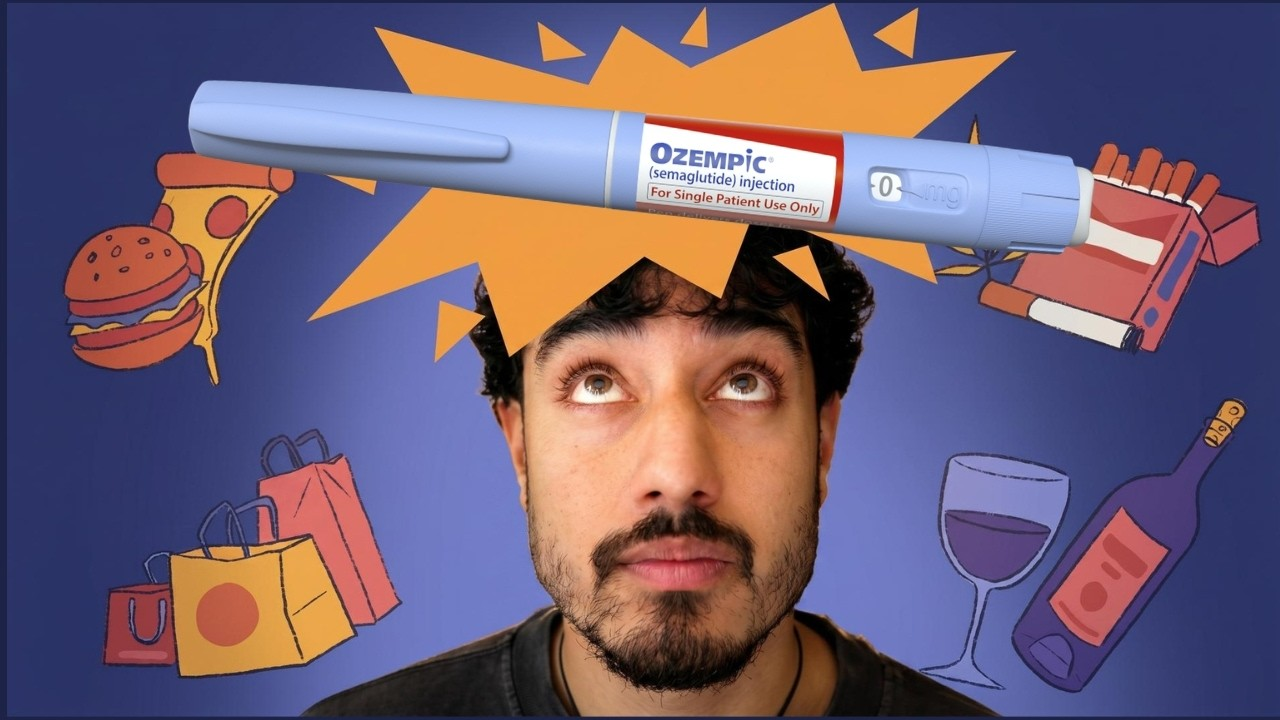
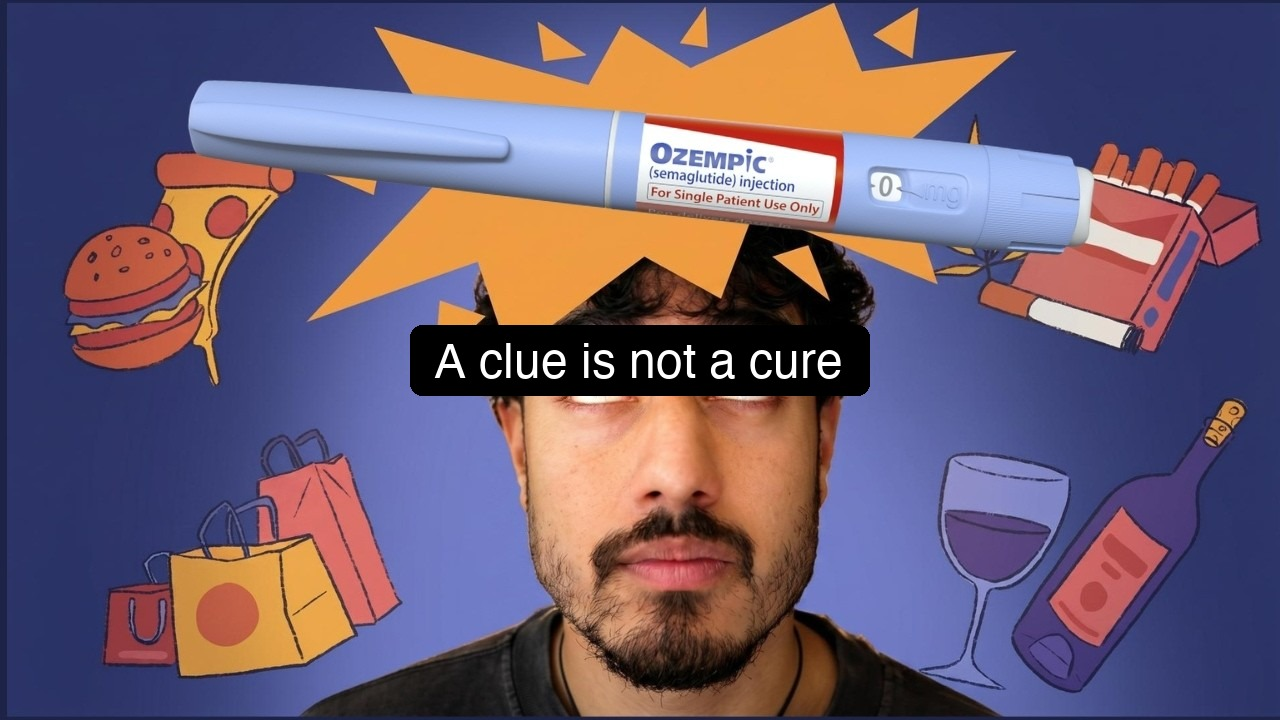
feat: add Ozempic article preview

Changed region(s): [[0.3125, 0.4278, 0.6875, 0.55]]

diff --git a/nextjs/public/medium/youtube-ozempic-5ggagpjdri8/index.html b/nextjs/public/medium/youtube-ozempic-5ggagpjdri8/index.html
@@ -5,7 +5,7 @@
   <meta name="viewport" content="width=device-width, initial-scale=1">
   <meta name="robots" content="noindex,nofollow">
   <meta name="article:status" content="preview">
[2 lines of base64/hex data omitted]
   <link rel="canonical" href="https://www.maxpetrusenko.com/medium/youtube-ozempic-5ggagpjdri8/">
   <title>The Strange Side Effect People Keep Discovering on Ozempic</title>
   <style>
@@ -80,40 +80,45 @@
 <body>
   <main>
 <h1>The Strange Side Effect People Keep Discovering on Ozempic</h1>
-<p><em>Some people taking a diabetes drug are reporting a quieter relationship with alcohol. The science is moving from anecdote toward a testable explanation.</em></p>
+<p><em>When a diabetes medicine changes a drinking habit, the important question is what the story can actually prove.</em></p>
 <figure><img src="/medium/youtube-ozempic-5ggagpjdri8/assets/hero-gila-monster.jpg" alt="A Gila monster, whose saliva helped inspire an early GLP-1 medicine"></figure>
-<p>A person takes two sips of a drink they used to finish without thinking. Then they put the glass down. The reaction feels so unfamiliar that they ask themselves, “Who am I?”</p>
-<p>Reports like this have spread through online communities among people taking Ozempic and related GLP-1 medicines. The reports are not proof that semaglutide treats alcohol-use disorder. They are clues pointing toward a biological connection researchers are now studying.</p>
-<blockquote><p>A medicine designed to control blood sugar may also change how rewarding alcohol feels.</p></blockquote>
+<blockquote><p>Ozempic is approved for type 2 diabetes, and Wegovy is approved for chronic weight management. Reports that semaglutide can reduce interest in alcohol are a research signal, not an established treatment for alcohol-use disorder. Animal experiments, registry data, and early human trials point in the same direction while leaving safety, dose, and causality open.</p></blockquote>
+<p>A person takes two sips of a drink they used to finish without thinking. Then they put the glass down. The interruption feels so unfamiliar that they ask themselves, “Who am I?”</p>
+<p>Reports like this have spread through online communities among people taking Ozempic and related GLP-1 medicines. The reports cannot establish a treatment effect. They can still point researchers toward a connection worth testing.</p>
+<p>The spine is simple: <strong>a change in appetite can reveal a change in reward, but an anecdote cannot carry a medical conclusion.</strong></p>
 <h2>The trail starts in a lizard’s saliva</h2>
-<p>Ozempic is the brand name for semaglutide, a medicine that mimics glucagon-like peptide-1, or GLP-1. The hormone is released by the intestine after eating. It helps the pancreas release insulin and slows digestion, which can reduce appetite and help regulate blood glucose. The <a href="https://www.accessdata.fda.gov/drugsatfda_docs/label/2024/209637s025lbl.pdf" target="_blank" rel="noopener noreferrer">FDA describes Ozempic as a treatment for type 2 diabetes</a>, not as an addiction medication.</p>
-<p>The drug’s history takes an unexpected turn in the Mexican desert. Researchers studying the Gila monster found a saliva molecule called exendin-4. It resembled GLP-1 but resisted the enzyme that quickly breaks down the human hormone. That discovery led to exenatide, the first GLP-1 receptor agonist approved for diabetes in 2005, as <a href="https://pubmed.ncbi.nlm.nih.gov/15872392/" target="_blank" rel="noopener noreferrer">the National Library of Medicine records</a>.</p>
-<p>Semaglutide came later. Its long action and potency made it useful for blood-sugar control, and higher-dose semaglutide was eventually approved for chronic weight management as Wegovy. The <a href="https://www.fda.gov/news-events/press-announcements/fda-approves-new-drug-treatment-chronic-weight-management-first-2014" target="_blank" rel="noopener noreferrer">FDA approved Wegovy in 2021</a>, after trials showed substantial average weight loss alongside diet and activity changes.</p>
-<p>The appetite explanation is real. It is also incomplete.</p>
+<p>Ozempic is the brand name for semaglutide, a medicine that activates the glucagon-like peptide-1 receptor. GLP-1 is released after eating. It helps regulate blood glucose, slows stomach emptying, and influences appetite. The <a href="https://www.accessdata.fda.gov/drugsatfda_docs/label/2025/209637s025lbl.pdf" target="_blank" rel="noopener noreferrer">FDA label</a> describes Ozempic for adults with type 2 diabetes and lists its warnings, contraindications, and adverse reactions.</p>
+<p>The drug’s history takes an unexpected turn in the Mexican desert. Researchers studying the Gila monster found exendin-4, a saliva molecule that resembles GLP-1 and resists rapid breakdown. That work led to exenatide, the first GLP-1 receptor agonist approved for diabetes, as the <a href="https://pubmed.ncbi.nlm.nih.gov/15872392/" target="_blank" rel="noopener noreferrer">original pharmacology paper</a> records.</p>
+<p>Semaglutide came later. The FDA approved Wegovy for chronic weight management in 2021 after randomized trials showed substantial average weight loss alongside diet and activity changes. The <a href="https://www.fda.gov/news-events/press-announcements/fda-approves-new-drug-treatment-chronic-weight-management-first-2014" target="_blank" rel="noopener noreferrer">FDA announcement</a> did not describe alcohol-use disorder as an indication.</p>
+<p>That distinction matters because appetite is only one route into reward.</p>
 <h2>Appetite is only one route into reward</h2>
-<p>Alcohol does more than provide calories. It changes signaling in brain systems involved in reward, motivation, stress, and habit. GLP-1 receptors appear in several of those systems, including regions containing dopamine neurons. That has given scientists a reason to ask whether GLP-1 medicines can influence reinforcement directly, rather than only making a person feel full.</p>
-<p>Animal studies offer the first controlled evidence. In one experiment, liraglutide reduced alcohol consumption in alcohol-preferring mice, and the effect was linked to GLP-1 signaling. Other studies have reported reduced alcohol-seeking or intake after GLP-1 receptor activation in rodents. A <a href="https://doi.org/10.1016/j.pbb.2023.173673" target="_blank" rel="noopener noreferrer">2023 review in Pharmacology Biochemistry and Behavior</a> maps the evidence while emphasizing that animal results do not automatically predict a clinical treatment.</p>
-<p>The human evidence is newer and messier. A Danish registry study published in <a href="https://jamanetwork.com/journals/jamanetworkopen/fullarticle/2816824" target="_blank" rel="noopener noreferrer">JAMA Network Open</a> found lower alcohol-related outcomes among people with type 2 diabetes using GLP-1 receptor agonists than among people using some other diabetes medicines. Registry studies can reveal patterns across large populations, but they cannot eliminate confounding. The people receiving one medicine may differ in health, income, access to care, or drinking history.</p>
-<p>A small randomized trial of exenatide in people with alcohol-use disorder found a reduction in heavy drinking for participants with obesity, while participants without obesity did not show the same pattern. The result was intriguing and limited. <a href="https://jamanetwork.com/journals/jamapsychiatry/fullarticle/2793794" target="_blank" rel="noopener noreferrer">The 2022 study in JAMA Psychiatry</a> did not establish semaglutide as a treatment, and its sample was too small to answer every safety or effectiveness question.</p>
-<p>That is the useful mental model here: <strong>separate the signal from the treatment claim</strong>.</p>
-<p>Three examples make the distinction concrete:</p>
+<p>Alcohol does more than provide calories. It changes signaling in systems involved in reinforcement, motivation, stress, and habit. GLP-1 receptors appear in brain regions involved in those processes, giving researchers a reason to test effects beyond fullness. A <a href="https://doi.org/10.1016/j.pbb.2023.173673" target="_blank" rel="noopener noreferrer">review of GLP-1 and alcohol research</a> describes the mechanism as plausible while separating preclinical evidence from a clinical treatment.</p>
+<p>Animal studies supplied the first controlled clues. Liraglutide reduced alcohol consumption in alcohol-preferring mice in one experiment. Other rodent studies reported lower alcohol-seeking or intake after GLP-1 receptor activation. A <a href="https://pubmed.ncbi.nlm.nih.gov/37295046" target="_blank" rel="noopener noreferrer">2023 rat study</a> reported reduced intake and relapse-like drinking after semaglutide, but rodent dosing and behavior do not map neatly onto a human prescription.</p>
+<p>Human evidence is newer. A Danish registry study in <a href="https://jamanetwork.com/journals/jamanetworkopen/fullarticle/2816824" target="_blank" rel="noopener noreferrer">JAMA Network Open</a> found lower alcohol-related outcomes among some people with type 2 diabetes who used GLP-1 receptor agonists than among people using other diabetes medicines. Registry studies can reveal population patterns. They cannot remove differences in income, access to care, weight, drinking history, or prescribing decisions.</p>
+<p>A small randomized trial of exenatide in people with alcohol-use disorder found a reduction in heavy drinking among participants with obesity. Participants without obesity did not show the same pattern. The <a href="https://jamanetwork.com/journals/jamapsychiatry/fullarticle/2793794" target="_blank" rel="noopener noreferrer">JAMA Psychiatry trial</a> was important because it tested a GLP-1 medicine in humans, and limited because its sample could not answer every safety or effectiveness question.</p>
+<p>A 2024 <a href="https://www.nature.com/articles/s41467-024-48780-6" target="_blank" rel="noopener noreferrer">Nature Communications study</a> found associations between GLP-1 receptor agonist use and alcohol-related outcomes in health records. The authors treated the result as evidence for further study, not as proof that semaglutide prevents alcohol-use disorder. A <a href="https://academic.oup.com/endo/article/166/4/bqaf028/8029141" target="_blank" rel="noopener noreferrer">2024 Endocrine Society review</a> reaches the same practical boundary: the biology is promising, and the clinical evidence remains incomplete.</p>
+<p>That boundary is the <strong>signal-to-treatment test</strong>. It asks whether a piece of evidence shows a change worth studying or proves that a medicine should be prescribed for a condition.</p>
+<p>Three examples make the test usable:</p>
 <ul>
-<li>A Reddit account is a signal that a person noticed a change, not a controlled result.</li>
-<li>A mouse experiment is a mechanism clue, not evidence that a human dose will work.</li>
-<li>A registry association is a population pattern, not proof that the medicine caused it.</li>
+<li>An online account is a signal that one person noticed a change. It is not a controlled result.</li>
+<li>A mouse experiment is a mechanism clue. It is not evidence that a human dose will work.</li>
+<li>A registry association is a population pattern. It is not proof that the medicine caused it.</li>
 </ul>
-<h2>Why the anecdotes feel so dramatic</h2>
-<p>Alcohol habits are partly automatic. A familiar place, time, or social cue can start a sequence before deliberate choice arrives. If a medicine changes the reward attached to the next drink, the person may experience the interruption as a change in identity rather than a small shift in appetite.</p>
-<p>That interpretation remains provisional. People who lose weight, improve blood sugar, sleep differently, or receive new medical support may also drink less. Some may have expected the medication to change their habits. Others may be taking several medicines. Online reports rarely contain the controls needed to distinguish those explanations.</p>
-<p>The risks matter. Ozempic can cause gastrointestinal side effects and carries important warnings and contraindications. Stopping alcohol suddenly can also be medically dangerous for people who drink heavily, because withdrawal can include seizures or delirium. The <a href="https://www.niaaa.nih.gov/publications/cyberseminars/alcohol-withdrawal-management" target="_blank" rel="noopener noreferrer">National Institute on Alcohol Abuse and Alcoholism recommends medical support for alcohol withdrawal</a>, and GLP-1 medicines should be used only under a clinician’s guidance.</p>
-<p>A person who drinks less after starting Ozempic may have noticed a real change. That still does not tell us whether the medicine is safe or effective for treating their alcohol use.</p>
+<h2>Why the story can feel like an identity change</h2>
+<p>Alcohol habits are partly automatic. A familiar time, place, or social cue can start a sequence before deliberate choice arrives. If a medicine changes the reward attached to the next drink, the interruption can feel larger than a small shift in appetite.</p>
+<p>Other explanations remain live. People who lose weight, improve blood sugar, sleep differently, or receive new medical support may also drink less. Some may expect a medication to change their habits. Some may take several medicines at once. Online reports rarely contain the controls needed to separate those explanations.</p>
+<p>The medicine also carries real trade-offs. The FDA label lists gastrointestinal adverse reactions and important warnings. People who drink heavily can face dangerous withdrawal if they stop suddenly. The <a href="https://www.niaaa.nih.gov/publications/cyberseminars/alcohol-withdrawal-management" target="_blank" rel="noopener noreferrer">National Institute on Alcohol Abuse and Alcoholism</a> recommends medical support for withdrawal management. A person should discuss changes in drinking or medication with a clinician.</p>
+<p>A person who drinks less after starting Ozempic may have noticed a real change. That observation still leaves the medical question open.</p>
 <h2>The experiment has to catch up with the story</h2>
-<p>Researchers are now testing the idea more directly. A credible trial needs a defined alcohol-use population, a comparison group, measured drinking outcomes, enough follow-up time, and careful monitoring of adverse events. It also needs to distinguish reduced craving from reduced opportunity, reduced appetite, or changes in weight.</p>
-<p>The strongest future result would not be “people online say they drink less.” It would show who benefits, at what dose, through which pathway, and with what trade-offs. It would also show who does not benefit.</p>
-<p>For now, the discovery is best treated as a research signal with personal consequences. People should not self-prescribe, change a dose, or stop heavy drinking without medical support. The next answer will come from controlled trials, not the confidence of the anecdotes.</p>
+<p>A useful trial needs a defined alcohol-use population, a comparison group, measured drinking outcomes, enough follow-up, and adverse-event monitoring. It also needs to separate reduced craving from reduced opportunity, reduced appetite, weight change, and new clinical support.</p>
+<p>The <a href="https://alcoholtreatment.niaaa.nih.gov/" target="_blank" rel="noopener noreferrer">National Institute on Alcohol Abuse and Alcoholism treatment navigator</a> lists established evidence-based treatment options. GLP-1 medicines are not a substitute for that care. The <a href="https://www.niaaa.nih.gov/news-events/spectrum/volume-16-issue-1-winter-2024/semaglutide-shows-promise-potential-alcohol-use-disorder-medication" target="_blank" rel="noopener noreferrer">NIAAA research summary on semaglutide</a> describes promise and the need for clinical trials.</p>
+<p>The strongest future result would identify who benefits, at what dose, through which pathway, and with what trade-offs. It would also identify who does not benefit. A 2025 <a href="https://jamanetwork.com/journals/jamapsychiatry/fullarticle/2829811" target="_blank" rel="noopener noreferrer">JAMA Psychiatry study of GLP-1 use and alcohol outcomes</a> adds to the growing observational literature, while still requiring cautious interpretation.</p>
+<p>The reader’s practical move is modest. Treat a changed craving as information to discuss with a clinician. Do not self-prescribe. Do not change a dose. Do not stop heavy drinking without medical support.</p>
+<p>The next answer will come from controlled trials, careful follow-up, and transparent limits. The anecdotes have opened the question; they have not closed it.</p>
 <p>Read next: <a href="https://www.maxpetrusenko.com/" target="_blank" rel="noopener noreferrer">Why your body can notice a problem before your mind can name it</a></p>
-<h2>About the author</h2>
-<p><em><a href="http://maxpetrusenko.com/links" target="_blank" rel="noopener noreferrer">Max Petrusenko</a> writes about technology, science, and culture. Follow him on <a href="https://medium.com/@max.petrusenko" target="_blank" rel="noopener noreferrer">Medium</a>, <a href="https://x.com/petrusenko_max" target="_blank" rel="noopener noreferrer">X</a>, and <a href="https://maxpetrusenko.substack.com/" target="_blank" rel="noopener noreferrer">Substack</a>.</em></p>
+<hr>
+<p><em><a href="http://maxpetrusenko.com/links" target="_blank" rel="noopener noreferrer">Max Petrusenko</a> writes about technology, science, and culture. Follow him on <a href="https://medium.com/@max.petrusenko" target="_blank" rel="noopener noreferrer">Medium</a>, <a href="https://x.com/petrusenko_max" target="_blank" rel="noopener noreferrer">X</a>, and <a href="https://www.linkedin.com/in/maxpetrusenko/" target="_blank" rel="noopener noreferrer">LinkedIn</a>.</em></p>
+<p>Pass it on to someone trying to separate a promising medical signal from a treatment claim.</p>
   </main>
 </body>
 </html>
